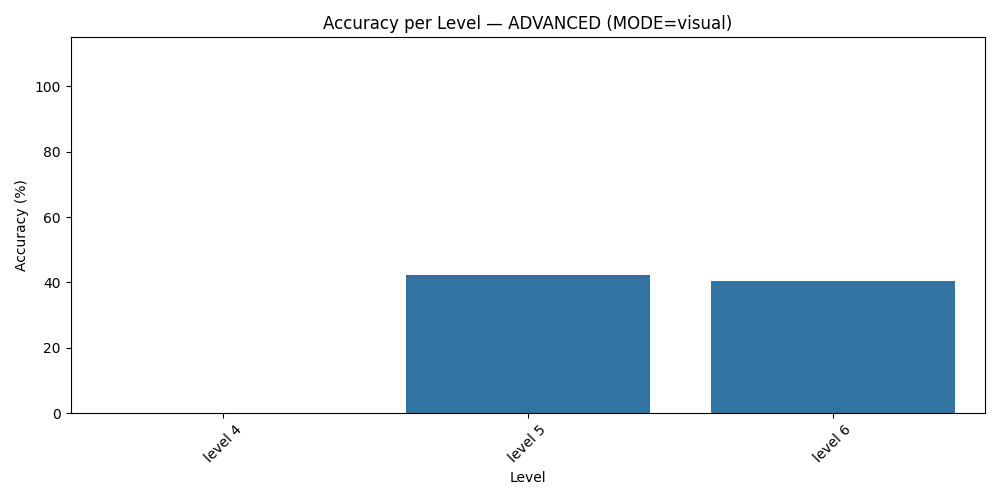
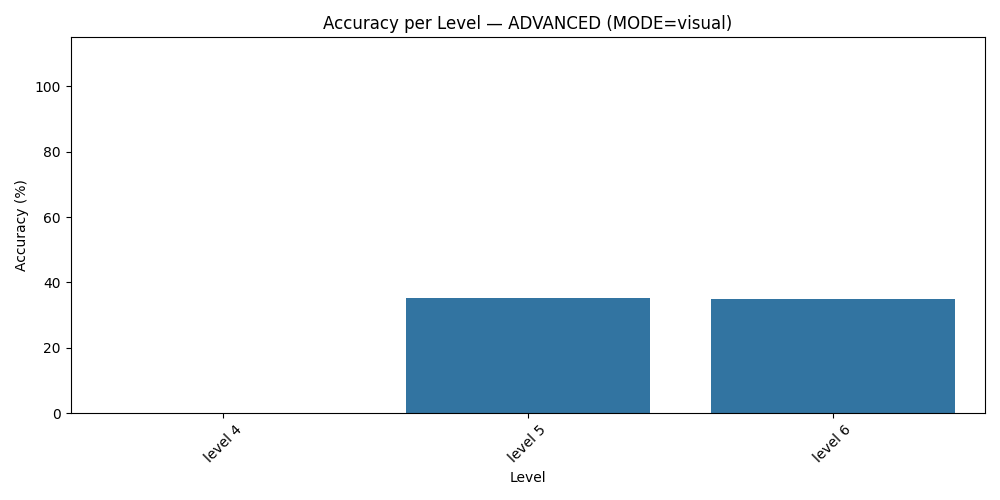
use appropriate prompt + changes attention plot to use first generated token instead of last

Changed region(s): [[0.713, 0.54, 0.961, 0.6], [0.403, 0.54, 0.651, 0.6]]

diff --git a/prompt_templates.py b/prompt_templates.py
@@ -1,35 +1,47 @@
 """Shared prompt templates.
 
-This repo uses the same prompt strings across:
+This repo uses the same prompt *structure* across:
 - main.py (visual inference + attention plots)
 - compute_accuracy.py (batch evaluation)
 - text_only_phrase_attention.py (text-only attention analysis)
 
-Centralizing them here makes it easy to change prompt wording without the
-scripts drifting apart.
+Each builder now returns a chat-style JSON conversation that can be passed
+through ``processor.apply_chat_template(...)`` to obtain the final text
+prompt for a specific checkpoint.
 """
 
+from typing import Any
 
-def build_visual_yesno_prompt(question: str) -> str:
-    """Prompt for visual (image + question) yes/no answering.
 
-    Keep the question on its own line so token-subsequence matching against
-    `question` continues to work.
-    """
+Conversation = list[dict[str, Any]]
+
+
+def build_visual_yesno_prompt(question: str) -> Conversation:
+    """Return a chat-style conversation for visual yes/no answering."""
     q = (question or "").strip()
-    return (
-        "USER: <image>\n"
-        "USER: Use the spatial layout in the image to answer the following relational reasoning question with either \"yes\" or \"no\".\n"
-        f"{q}\n"
-        "ASSISTANT:"
-    )
+    return [
+        {
+            "role": "user",
+            "content": [
+                {
+                    "type": "text",
+                    "text": (
+                        'Use the spatial layout in the image to answer the following '
+                        'relational reasoning question with either "yes" or "no".\n'
+                        f"{q}"
+                    ),
+                },
+                {"type": "image"},
+            ],
+        },
+    ]
 
 
-def build_caption_yesno_prompt(caption: str, question: str) -> str:
-    """Prompt for text-only caption evidence yes/no answering."""
+def build_caption_yesno_prompt(caption: str, question: str) -> Conversation:
+    """Return a chat-style conversation for caption-based yes/no answering."""
     cap = (caption or "").strip()
     q = (question or "").strip()
-    return (
+    text = (
         "You are given a caption describing a synthetic scene.\n"
         "Use only the caption as evidence.\n"
         "Answer the question with only \"yes\" or \"no\".\n\n"
@@ -37,16 +49,38 @@ def build_caption_yesno_prompt(caption: str, question: str) -> str:
         f"Question: {q}\n"
         "Answer:"
     )
+    return [
+        {
+            "role": "user",
+            "content": [
+                {
+                    "type": "text",
+                    "text": text,
+                }
+            ],
+        }
+    ]
 
 
-def build_scene_yesno_prompt(scene_text: str, question: str) -> str:
-    """Prompt for text-only scene-description evidence yes/no answering."""
+def build_scene_yesno_prompt(scene_text: str, question: str) -> Conversation:
+    """Return a chat-style conversation for scene-description yes/no answering."""
     scene = (scene_text or "").strip()
     q = (question or "").strip()
-    return (
+    text = (
         "You are given a synthetic scene description.\n"
         "Answer the question with only \"yes\" or \"no\".\n\n"
         f"Scene: {scene}\n\n"
         f"Question: {q}\n"
         "Answer:"
     )
+    return [
+        {
+            "role": "user",
+            "content": [
+                {
+                    "type": "text",
+                    "text": text,
+                }
+            ],
+        }
+    ]

diff --git a/main.py b/main.py
@@ -693,9 +693,16 @@ def main():
         rel_group = qa_item.get("rel_group", None)
         rel_phrase = qa_item.get("rel_phrase", None)  # NEW
 
-        prompt_text = build_visual_yesno_prompt(question_text)
+        conversation = build_visual_yesno_prompt(question_text)
+        prompt_text = processor.apply_chat_template(
+            conversation,
+            add_generation_prompt=True,
+            tokenize=False,
+        )
         inputs = processor(text=prompt_text, images=image, return_tensors="pt")
         inputs = _move_processor_inputs(inputs, model)
+        # Index of the first generated token in the full sequence (prompt + generation)
+        prompt_len = inputs["input_ids"].shape[1]
 
         with torch.no_grad():
             outputs = model.generate(
@@ -706,6 +713,16 @@ def main():
                 output_attentions=False,
                 pad_token_id=processor.tokenizer.eos_token_id
             )
+
+        # Debug: inspect the first generated token (used for yes/no decision)
+        try:
+            seq_full = outputs.sequences[0]
+            if i < 10 and seq_full.shape[0] > prompt_len:
+                first_gen_id = int(seq_full[prompt_len].item())
+                first_gen_text = processor.tokenizer.decode([first_gen_id], skip_special_tokens=False)
+                tqdm.write(f"Q{i}: first generated token id={first_gen_id}, text={repr(first_gen_text)}")
+        except Exception as e:
+            tqdm.write(f"  [Debug] Could not decode first generated token for Q{i}: {e}")
 
         # Eval
         prediction, confidence, p_yes, p_no = get_yes_no_probability(outputs, processor.tokenizer)
@@ -902,7 +919,10 @@ def main():
 
             for layer_idx, layer_attn_tensor in iterator:
                 try:
-                    heads_raw = layer_attn_tensor[0, :, -1, :] 
+                    # Use the FIRST generated token as the query position for attention
+                    seq_len_layer = layer_attn_tensor.shape[2]
+                    query_idx = prompt_len if prompt_len < seq_len_layer else seq_len_layer - 1
+                    heads_raw = layer_attn_tensor[0, :, query_idx, :]
                     
                     if end_idx > heads_raw.shape[1]:
                         image_heads_flat = heads_raw[:, -num_patches:]

diff --git a/compute_accuracy.py b/compute_accuracy.py
@@ -312,15 +312,26 @@ def main():
                 if args.text_only:
                     caption = get_caption_for_qa(data, qa)
                     if caption is not None:
-                        prompt = build_caption_yesno_prompt(caption, question)
+                        conversation = build_caption_yesno_prompt(caption, question)
                     else:
                         # Backward-compatible fallback when caption linkage is missing.
-                        prompt = build_scene_yesno_prompt(scene_text or "", question)
-                    pred, completion, confidence, p_yes, p_no = predict_text_only(model, processor, prompt)
+                        conversation = build_scene_yesno_prompt(scene_text or "", question)
+
+                    prompt_text = processor.apply_chat_template(
+                        conversation,
+                        add_generation_prompt=True,
+                        tokenize=False,
+                    )
+                    pred, completion, confidence, p_yes, p_no = predict_text_only(model, processor, prompt_text)
                 else:
                     caption = None
-                    prompt = build_visual_yesno_prompt(question)
-                    inputs = processor(text=prompt, images=image, return_tensors="pt")
+                    conversation = build_visual_yesno_prompt(question)
+                    prompt_text = processor.apply_chat_template(
+                        conversation,
+                        add_generation_prompt=True,
+                        tokenize=False,
+                    )
+                    inputs = processor(text=prompt_text, images=image, return_tensors="pt")
                     inputs = _move_to_device(inputs, _pick_model_input_device(model))
 
                     with torch.no_grad():
@@ -343,7 +354,7 @@ def main():
                         completion = ""
 
                 # Store a single transcript in Prompt column for easier debugging.
-                transcript = f"{prompt}\nMODEL: {completion}" if completion else prompt
+                transcript = f"{prompt_text}\nMODEL: {completion}" if completion else prompt_text
 
                 total_questions += 1
                 is_correct = (pred == gt)

diff --git a/text_only_phrase_attention.py b/text_only_phrase_attention.py
@@ -510,11 +510,17 @@ def main() -> None:
     if args.prompt_mode == "scene":
         evidence_kind = "scene"
         evidence_text = scene_to_text(ann)
-        prompt = build_scene_yesno_prompt(evidence_text, ex.question)
+        conversation = build_scene_yesno_prompt(evidence_text, ex.question)
     else:
         evidence_kind = "caption"
         evidence_text = ex.caption
-        prompt = build_caption_yesno_prompt(evidence_text, ex.question)
+        conversation = build_caption_yesno_prompt(evidence_text, ex.question)
+
+    prompt = processor.apply_chat_template(
+        conversation,
+        add_generation_prompt=True,
+        tokenize=False,
+    )
 
     tok = tokenizer(prompt, return_tensors="pt")
 
